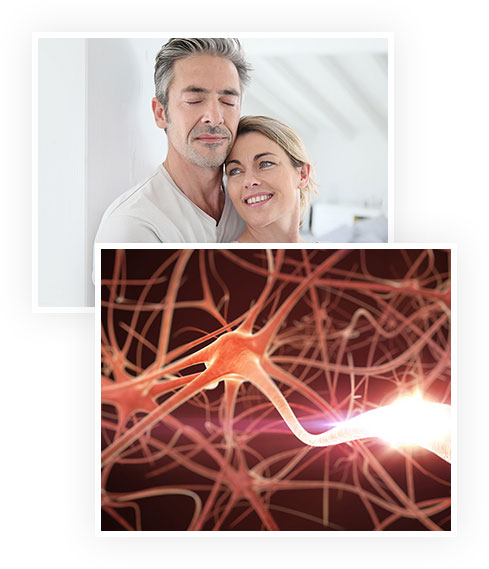
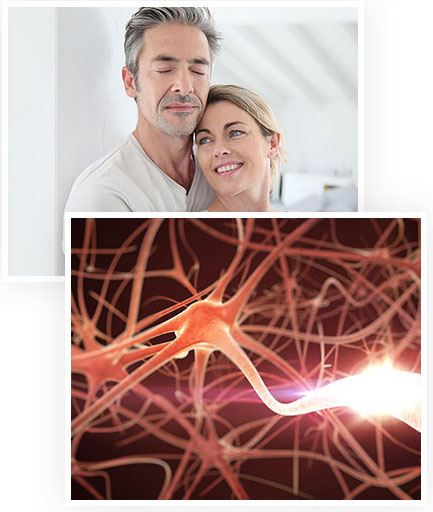
,

diff --git a/igenics-downsell.html b/igenics-downsell.html
@@ -170,7 +170,7 @@
 
             <div class="igncs-s1-sec plr-50 lazy" data-src="assets/images/igncs-s1-sec-bg.png" style="background-image: url('assets/images/igncs-s1-sec-bg.png');">
               <div class="igncs-s1-sec-inr">
-                <h4>5.8 Million Americans Live With This Terrifying Disease</h4>
+                <h4>5.8 Million Americans Live With This <br> Terrifying Disease</h4>
                 <h4>And It’s Expected Another 500,000 Will Be Diagnosed Before The End Of 2021…</h4>
               </div>
             </div>
@@ -208,9 +208,9 @@
               </div>
             </div>
 
-            <div class="igncs-s4-sec plr-50 lazy" data-src="assets/images/igncs-s1-sec-bg.png" style="background-image: url('assets/images/igncs-s1-sec-bg.png');">
+            <div class="igncs-s4-sec plr-50 lazy" data-src="assets/images/igncs-n5-sec-heading-bg.png" style="background-image: url('assets/images/igncs-n5-sec-heading-bg.png');">
               <div class="igncs-s4-sec-inr">
-                <h4>The Number Of Age-Related Memory Loss Cases Double Every 5 Years After The Age Of 65…</h4>
+                <h4>The Number Of Age-Related Memory Loss Cases <br> Double Every 5 Years After The Age Of 65…</h4>
               </div>
             </div>
 
@@ -231,6 +231,58 @@
                     <p>Then it’s important that you do something immediately to curb your chances of falling to this disease.</p>
                   </div>
                 </div>
+              </div>
+            </div>
+
+            <div class="igncs-s6-sec plr-50">
+              <div class="igncs-s6-sec-inr">
+                <div class="igncs-s6-hdr">
+                  <h4 class="black-title">Age-Related Memory Loss is Linked to <br> our Stress Hormone – Cortisol</h4>
+                </div>
+                <div class="igncs-s6-des-ctlr">
+                  <div class="igncs-s6-img">
+                    <img class="lazy" data-src="assets/images/igncs-s6-img-01.png">
+                    <img class="lazy" data-src="assets/images/igncs-s6-img-02.png">
+                  </div>
+                  <div class="igncs-s6-des">
+                    <p>Cortisol is healthy on its own and helps the brain work better…</p>
+                    <p>But when there’s too much of it, it makes the brain sick.</p>
+                    <p>Having too much cortisol in your brain…</p>
+                    <p>Is like overwatering a plant.</p>
+                    <p>When you give a plant too much water, the leaves turn brown, the soil rots, and the plant begins to slowly die…</p>
+                    <p>The same thing happens to your brain when it has too much cortisol…</p>
+                    <p>The cells begin to get sick and die…</p>
+                    <p>And along with them, your memories.</p>
+                  </div>
+                </div>
+              </div>
+            </div>
+
+            <div class="igncs-s7-sec plr-50" data-src="assets/images/igncs-s7-bg-2.png" style="background-image: url(assets/images/igncs-s7-bg-2.png);">
+              <div class="igncs-s7-sec-inr">
+                <div class="igncs-s7-hdr">
+                  <h4>Too Much Cortisol Can Lead To Oxidative Stress <br> And Inflammation </h4>
+                  <h4>Two Things You Know Are Terrible For Your Health</h4>
+                </div>
+                <div class="igncs-s7-des">
+                  <p>So how do we stop this from destroying your brain so you can stay healthy for longer?</p>
+                  <p>Our ScienceGenics team went to work developing a preventative solution to age-related memory loss…</p>
+                  <p>Something that could be taken every day, and fits into any regimen…</p>
+                  <p>Plus, we designed this solution to synergize with all the ingredients in iGenics…</p>
+                  <p>So you have complete nutritional support.</p>
+                </div>
+              </div>
+            </div>
+
+            <div class="igncs-s8-sec plr-50 lazy" data-src="assets/images/igncs-n5-sec-heading-bg.png" style="background-image: url(assets/images/igncs-n5-sec-heading-bg.png);">
+              <div class="igncs-s8-sec-inr">
+                <h4>We call it…</h4>
+                <h1>IntelliGen</h1>
+              </div>
+            </div>
+            <div class="igncs-s9-sec plr lazy" data-src="assets/images/igncs-s9-sec-bg.png" style="background-image: url(assets/images/igncs-s9-sec-bg.png);">
+              <div class="igncs-s9-sec-inr">
+                <img class="lazy" data-src="assets/images/igncs-s9-img.png">
               </div>
             </div>
 

diff --git a/igenics-downsell2.css b/igenics-downsell2.css
@@ -1,11 +1,18 @@
-.igncs-s1-sec,
-.igncs-s4-sec{
+.igncs-s1-sec{
 	background-repeat: no-repeat;
 	background-position: center left;
-	background-color: rgba(2,106,157,0.8);
+	background-color: rgb(2,106,157);
+	padding-top: 25px;
 }
 .igncs-s1-sec-inr{
 	padding-bottom: 1px;
+	text-align: center;
+}
+.igncs-s1-sec-inr h4{
+	margin-bottom: 38px;
+}
+.igncs-s1-sec-inr h4:last-child{
+	margin-bottom: 17px;
 }
 
 .igncs-s2-sec{
@@ -19,11 +26,15 @@
 }
 .igncs-s2-rgt-img{
 	order: 2;
-	width: 50%;
+	width: 37%;
 }
 .igncs-s2-lft-des{
 	order: 1;
-	width: 50%;
+	width: 63%;
+	padding-right: 20px
+}
+.igncs-s2-rgt-img img{
+	border: 8px solid #fff
 }
 .igncs-s2-lft-des p{
 	color: #fff;
@@ -37,9 +48,149 @@
 	display: flex;
 }
 .igncs-s3-lft-img{
-	width: 50%;
+	width: 42.5%;
 }
 .igncs-s3-rgt-des{
+	width: 57.5%;
+	padding-left: 25px;
+}
+
+.igncs-s3-rgt-des p{
+	margin-bottom: 20px;
+}
+
+.igncs-s4-sec{
+	background-color: rgba(2,106,157,1);
+    padding-top: 36px;
+    position: relative;
+    text-align: center;
+    padding-bottom: 15px;
+    background-size: inherit;
+    background-position: left center;
+    background-repeat: no-repeat;
+    padding-left: 95px;
+    padding-right: 95px;
+    margin-left: -35px;
+    margin-right: -35px;
+}
+.igncs-s4-sec:after{
+	position: absolute;
+    border-top: 44px solid #003c5b;
+    border-right: 35px solid transparent;
+    content: "";
+    right: 0;
+    top: 100%;
+}
+.igncs-s4-sec:before{
+	position: absolute;
+    border-top: 44px solid #003c5b;
+    border-left: 35px solid transparent;
+    content: "";
+    left: 0;
+    top: 100%;
+}
+
+
+.igncs-s5-sec{
+	padding-top: 40px;
+}
+
+.igncs-s5-des-ctlr{
+	display: flex;
+}
+.igncs-s5-img{
+	order: 2;
 	width: 50%;
-	padding-left: 20px;
+}
+.igncs-s5-des{
+	order: 1;
+	width: 50%;
+	padding-right: 20px
+}
+
+
+.igncs-s6-sec{
+	background: #f2f2f2;
+	padding-top: 35px;
+}
+
+.igncs-s6-hdr{
+	text-align: center;
+}
+.igncs-s6-des-ctlr{
+	display: flex;
+}
+.igncs-s6-img{
+	width: 43%;
+	text-align: center;
+}
+.igncs-s6-des{
+	width: 57%;
+	padding-left: 60px;
+	padding-top: 20px;
+}
+
+.igncs-s7-sec{
+	/*background-color: #00354e;*/
+	background-repeat: no-repeat;
+	background-position: center center;
+	background-size: cover;
+	padding-top: 35px;
+}
+
+.igncs-s7-hdr{
+	text-align: center;
+}
+.igncs-s7-hdr h4{
+	margin-bottom: 35px;
+}
+
+.igncs-s7-des{
+	padding-right: 30px;
+	padding-bottom: 20px;
+}
+.igncs-s7-des p{
+	color: #fff
+}
+.igncs-s8-sec{
+	background-color: rgba(2,106,157,1);
+    padding-top: 36px;
+    position: relative;
+    text-align: center;
+    padding-bottom: 15px;
+    background-size: inherit;
+    background-position: left center;
+    background-repeat: no-repeat;
+    padding-left: 95px;
+    padding-right: 95px;
+    margin-left: -35px;
+    margin-right: -35px;
+}
+.igncs-s8-sec:after{
+	position: absolute;
+    border-top: 44px solid #003d5d;
+    border-right: 35px solid transparent;
+    content: "";
+    right: 0;
+    top: 100%;
+}
+.igncs-s8-sec:before{
+	position: absolute;
+    border-top: 44px solid #003d5d;
+    border-left: 35px solid transparent;
+    content: "";
+    left: 0;
+    top: 100%;
+}
+.igncs-s8-sec-inr h4{
+	font-family: 'MontserratMedium';
+	margin-bottom: 12px;
+}
+
+.igncs-s9-sec{
+	padding-top: 100px;
+	padding-bottom: 40px;
+}
+.igncs-s9-sec-inr{
+	text-align: center;
 }
